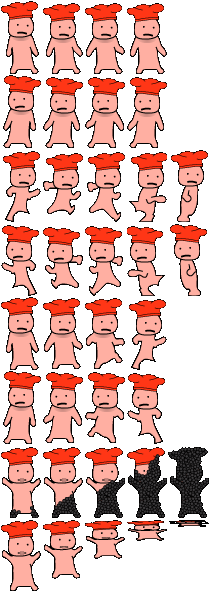
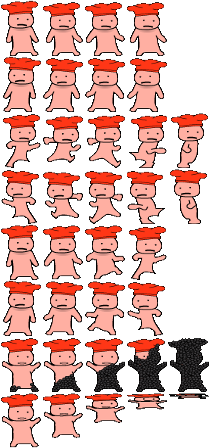
resize cakewalk images so no need to scale in-game

diff --git a/src/cakewalk/LevelFactory.ts b/src/cakewalk/LevelFactory.ts
@@ -126,9 +126,7 @@ export class LevelFactory {
     c.addChild(s1 = new Sprite(c.id+'_post0', 'CakeWalk/checkpoint1.png'));
     c.addChild(s2 = new Sprite(c.id+'_post1', 'CakeWalk/checkpoint2.png'));
     s1.position = new Vector(0, 60);
-    s1.localScale = new Vector(0.3, 0.3);
     s2.position = new Vector(0, 60);
-    s2.localScale = new Vector(0.3, 0.3);
     s2.visible = false;
     return c;
   }
@@ -305,8 +303,7 @@ export class LevelFactory {
     //seventh obstacle
     g1a.restPosition = g1a.position = new Vector(2200, 160);
     g1a.targetPosition = g1a.position.add(new Vector(0, -150));
-    s2a.position = new Vector(2200, 190);
-    s2a.localScale = new Vector(0.3, 0.3);
+    s2a.position = new Vector(2200, 205);
     g1a.syncSwitch(s2a);
     c2g.position = new Vector(2205, 220);
     // 2nd checkpoint
@@ -330,12 +327,10 @@ export class LevelFactory {
     g1b.restPosition = g1b.position = new Vector(2550, 25);
     g1b.targetPosition = g1b.position.add(new Vector(0, -150));
     s2b.position = new Vector(2500, 130);
-    s2b.localScale = new Vector(0.3, 0.3);
     g1b.syncSwitch(s2b);
     g2a.restPosition = g2a.position = new Vector(2550, 25);
     g2a.targetPosition = g2a.position.add(new Vector(0, 150));
     s1a.position = new Vector(2700, 250);
-    s1a.localScale = new Vector(0.3, 0.3);
     g2a.syncSwitch(s1a);
     // ending trigger zones
     end1.position = new Vector(2850, 0);
@@ -348,7 +343,6 @@ export class LevelFactory {
     xbutton1.position = new Vector(1000 + 16, 75);
     xbutton2.position = new Vector(1000 + 16, 75);
     [abutton1, abutton2, xbutton1, xbutton2].map((b : Sprite) => {
-      b.dimensions = new Vector(64, 64);
       b.pivotPoint = new Vector(0.5, 0.5);
     });
 
@@ -854,9 +848,7 @@ private static GetLevelThree() : LevelParams {
   g2g.smoothFactor = 0.025;
 
   s1a.position = new Vector(300,185);
-  s1a.localScale = new Vector(0.28, 0.28);
   s2a.position = new Vector(300,185);
-  s2a.localScale = new Vector(0.28, 0.28);
   g1a.syncSwitch(s1a);
   g2a.syncSwitch(s2a);
   g1g.syncSwitch(s1a);
@@ -908,33 +900,23 @@ private static GetLevelThree() : LevelParams {
   c1h.position = new Vector(2100,180);
   c2h.position = new Vector(2100,180);
   s1b.position = new Vector(1150,190);
-  s1b.localScale = new Vector(0.28, 0.28);
   s2b.position = new Vector(1150,190);
-  s2b.localScale = new Vector(0.28, 0.28);
   g1b.syncSwitch(s2b);
   g2b.syncSwitch(s1b);
   s1c.position = new Vector(1350,190);
-  s1c.localScale = new Vector(0.28, 0.28);
   s2c.position = new Vector(1350,190);
-  s2c.localScale = new Vector(0.28, 0.28);
   g1c.syncSwitch(s1c);
   g2c.syncSwitch(s2c);
   s1d.position = new Vector(1550,190);
-  s1d.localScale = new Vector(0.28, 0.28);
   s2d.position = new Vector(1550,190);
-  s2d.localScale = new Vector(0.28, 0.28);
   g1d.syncSwitch(s2e);
   g2d.syncSwitch(s1e);
   s1e.position = new Vector(1750,190);
-  s1e.localScale = new Vector(0.28, 0.28);
   s2e.position = new Vector(1750,190);
-  s2e.localScale = new Vector(0.28, 0.28);
   g1e.syncSwitch(s2d);
   g2e.syncSwitch(s1d);
   s1f.position = new Vector(1950,190);
-  s1f.localScale = new Vector(0.28, 0.28);
   s2f.position = new Vector(1950,190);
-  s2f.localScale = new Vector(0.28, 0.28);
   g1f.syncSwitch(s1f);
   g2f.syncSwitch(s2f);
   f1bb.position = new Vector(1150, 60);
@@ -1334,10 +1316,6 @@ private static GetLevelFour() : LevelParams {
   g2l.targetPosition = g2l.position.add(new Vector(0, 50));
   g2m.position = g2m.restPosition = new Vector(2600, 200);
   g2m.targetPosition = g2m.position.add(new Vector(0, -50));
-
-  [s1a, s2a, s2b, s2c].map((o : DisplayObject) => {
-    o.dimensions = new Vector(36, 36);
-  });
 
   return {
     topLevel: env1,

diff --git a/src/cakewalk/MainGame.ts b/src/cakewalk/MainGame.ts
@@ -105,9 +105,6 @@ export class MainGame extends Game {
     this.world2.dimensions = new Vector(this.width, this.height / 2);
     this.world1.addEventListener(CameraScrollEventArgs.ClassName, this.background1.handleCameraScroll);
     this.world2.addEventListener(CameraScrollEventArgs.ClassName, this.background2.handleCameraScroll);
-    // players
-    this.player1.localScale = new Vector(1.0, 0.75);
-    this.player2.localScale = new Vector(1.0, 0.75);
 
     // UI
     this.timerParent.position = new Vector(50, this.height / 2);
@@ -116,7 +113,6 @@ export class MainGame extends Game {
     this.timerParent.visible = false;
     this.timerParent.active = false;  // do not show/update timer until level start
     // NOTE references to this.timer are getting type casted first child of timerParent
-    this.timer.localScale = new Vector(0.5, 0.5);
     this.timer.pivotPoint = new Vector(0.0, 0.5);
     this.timer.reset();
 

diff --git a/src/cakewalk/PlayerObject.ts b/src/cakewalk/PlayerObject.ts
@@ -60,7 +60,6 @@ export class PlayerObject extends MainGameSprite implements IRectCollider, IPhys
     this._inDeathState = false;
     this._previousVelocity = Vector.zero;
     this.addChild(this._cooldownAnimation = new AnimatedSprite(this.id+'_swap_circle', 'CakeWalk/animations/refresh.png'));
-    this._cooldownAnimation.localScale = new Vector(0.45, 0.45);
     this._cooldownAnimation.position = new Vector(-10, -20);
     this._cooldownAnimation.visible = false;
 
